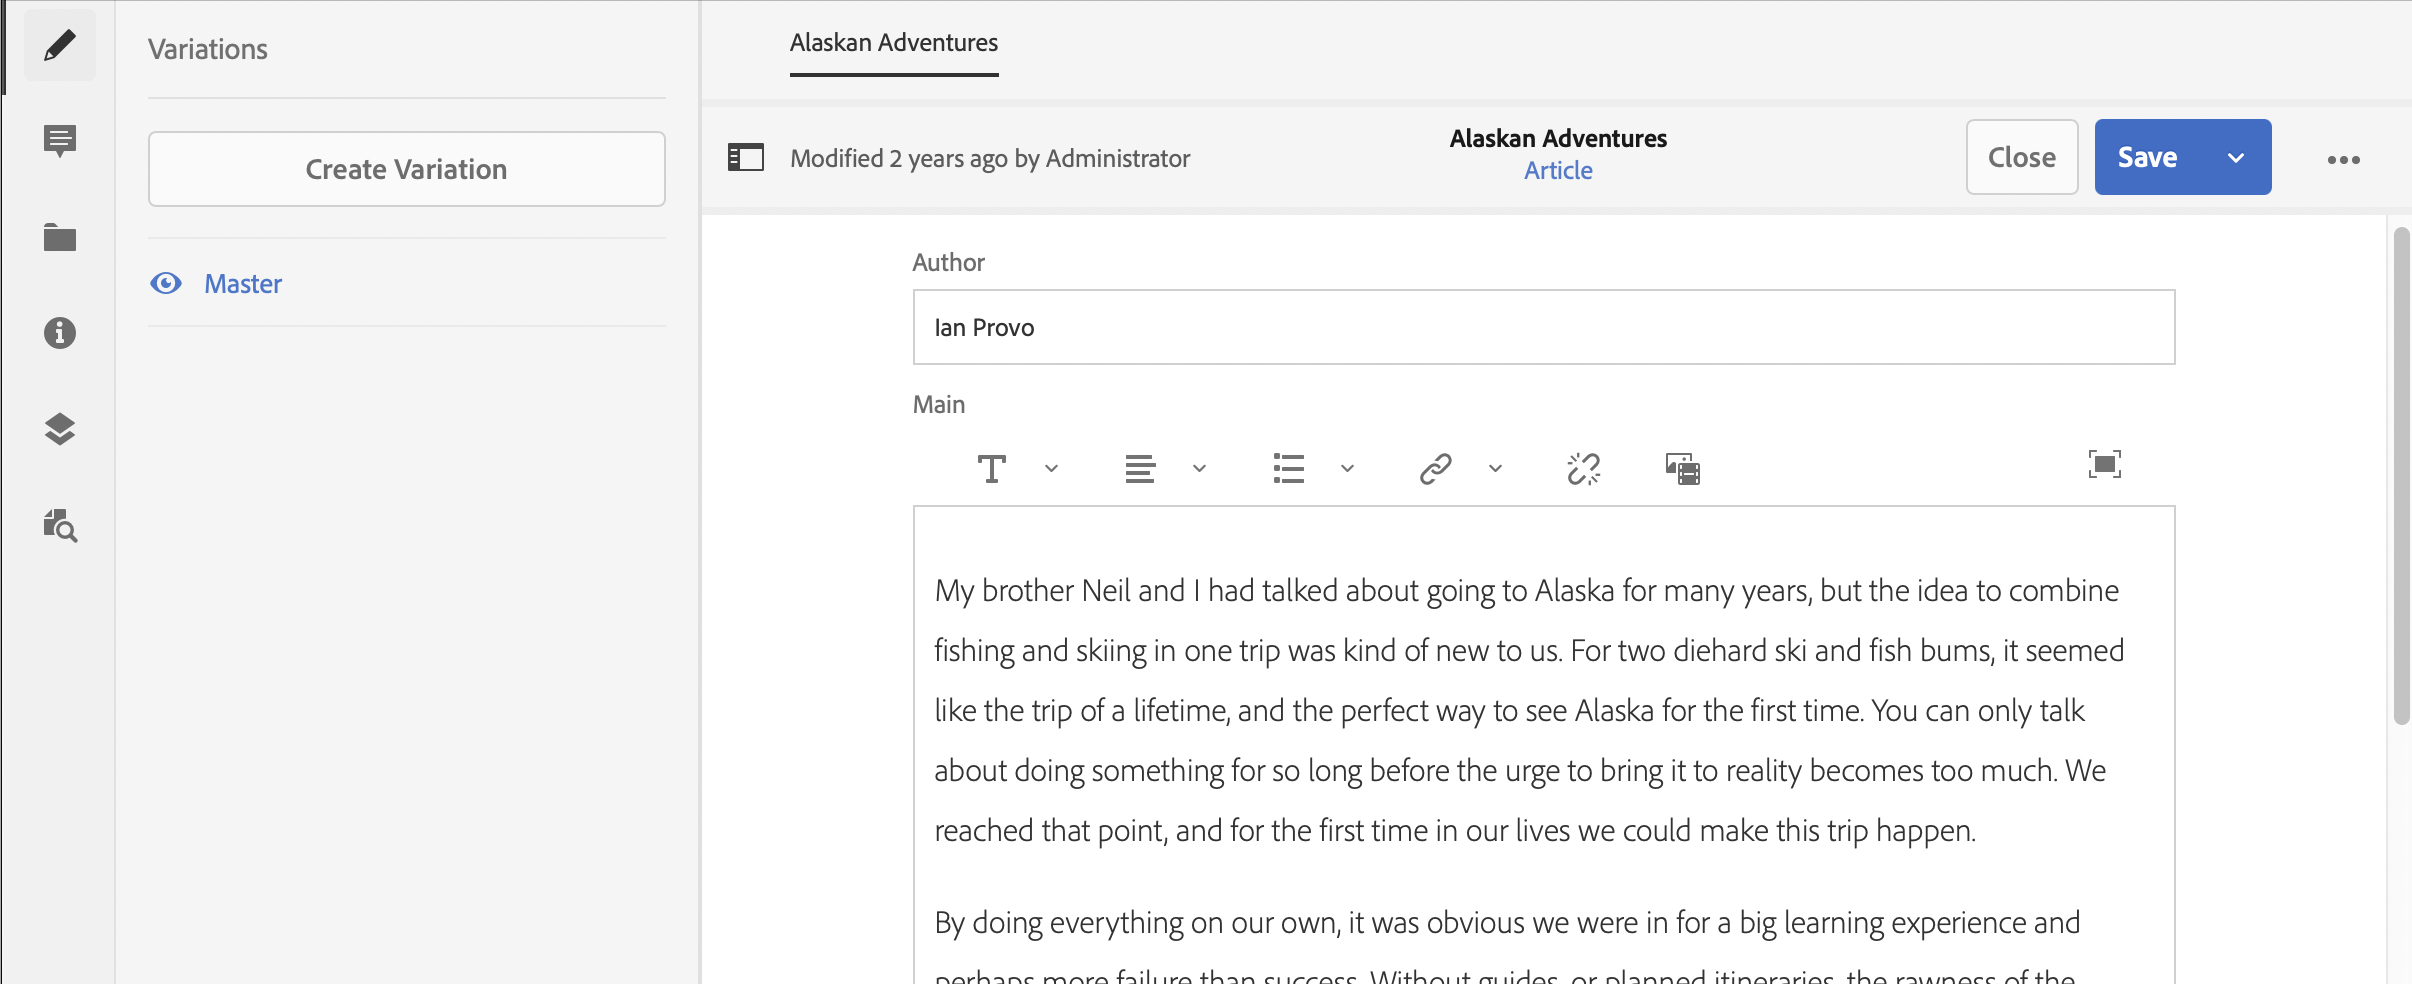
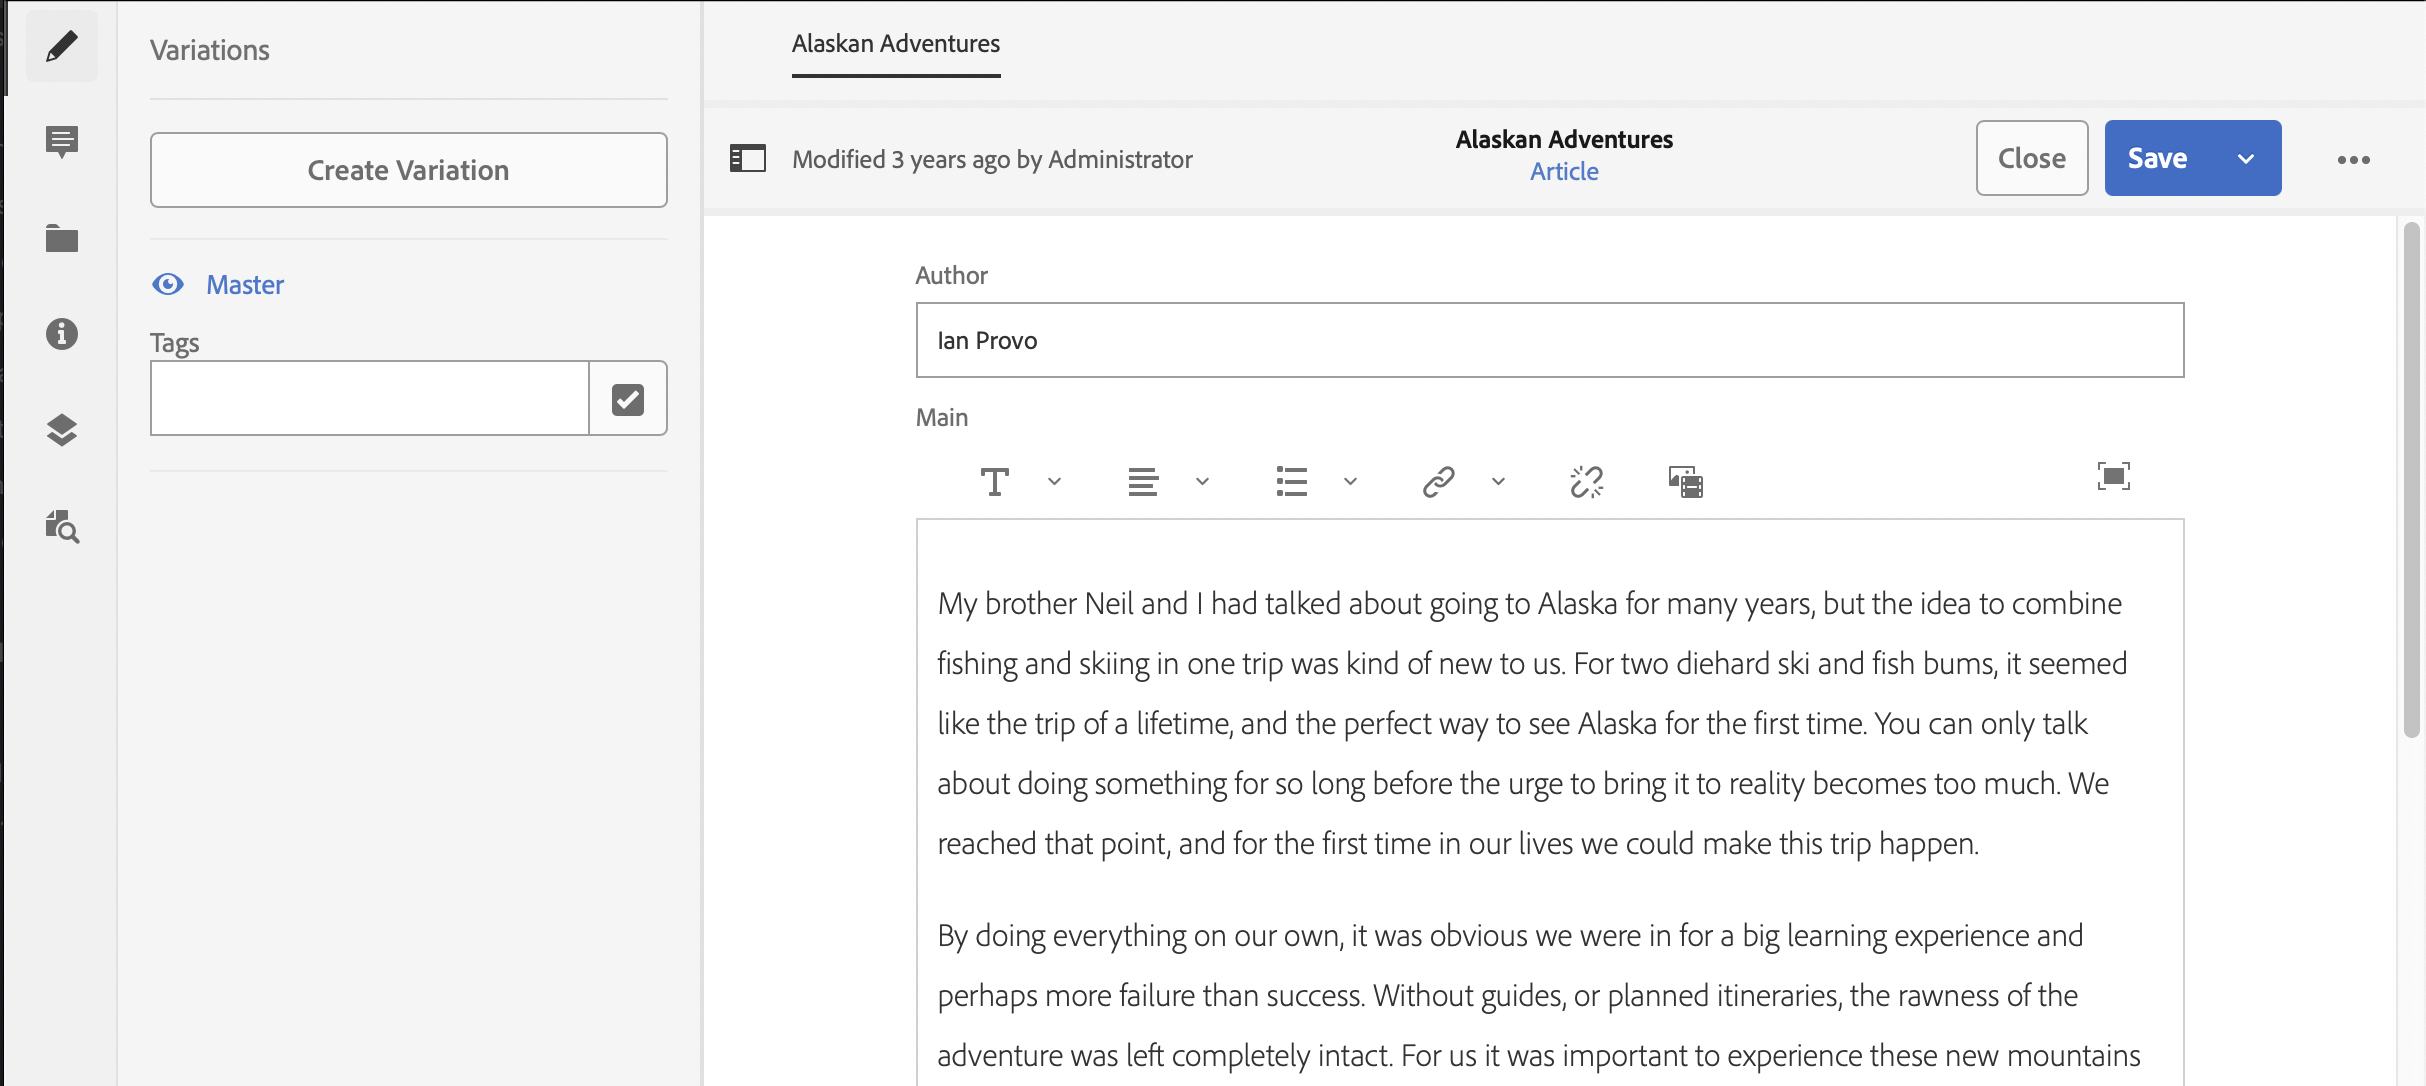
PU65150-CFGT-02-01

diff --git a/help/assets/content-fragments/content-fragments-variations.md b/help/assets/content-fragments/content-fragments-variations.md
@@ -14,7 +14,7 @@ From the **Variations** tab you can:
 * [Enter the content](#authoring-your-content) for your fragment,
 * [Create and manage variations](#managing-variations) of the **Master** content,
 
-Perform a range of other actions depending on the data-type being edited; for example:
+Perform a range of other actions depending on the data type being edited; for example:
 
 * [Insert visual assets into your fragment](#inserting-assets-into-your-fragment) (images)
 
@@ -34,24 +34,38 @@ Perform a range of other actions depending on the data-type being edited; for ex
 
 ## Authoring your Content {#authoring-your-content}
 
-When you open your content fragment for editing, the **Variations** tab will be open by default. Here you can author the content, for Master or any variations you have. The structured fragment contains various fields, of various data-types, that were defined in the content model. 
+When you open your content fragment for editing, the **Variations** tab will be open by default. Here you can author the content, for Master or any variations you have. The structured fragment contains various fields, of various data types, that were defined in the content model. 
 
 For example:
 
 ![full screen editor](assets/cfm-variations-02.png)
+
 You can:
 
-* make edits directly in the **Variations** tab
+* Make edits to your content directly in the **Variations** tab; each data type provides different editing options, for example:
 
-  * each data type provides different editing options
+  * for **Multi line text** fields you can also open the [full-screen editor](#full-screen-editor) to:
 
-* for **Multi line text** fields you can also open the [full-screen editor](#full-screen-editor) to:
+    * select the [Format](#formats)
+    * see more editing options (for [Rich Text](#rich-text) format)
+    * access a range of [actions](#actions)
 
-  * select the [Format](#formats)
-  * see more editing options (for [Rich Text](#rich-text) format)
-  * access a range of [actions](#actions)
+  * For **Fragment Reference** fields the [Edit Content Fragment](#fragment-references-edit-content-fragment) option can be available, depending on the model definition.
 
-* For **Fragment Reference** fields the **[Edit Content Fragment](#fragment-references-edit-content-fragment)** option can be available, depending on the model definition.
+* Assign **Tags** to the current variation; the tags can be added, updated and removed
+
+  * [Tags](/help/sites-authoring/tags.md) are particularly powerful when organizing your fragments as they can be used for content classification and taxonomy. Tags can be used for the purpose of finding content (by tags) and applying bulk operations. 
+
+    * Searches for a tag will return the fragment, with the tagged variation highlighted. 
+    * Variation tags can also be used to group variations for a specific Content Delivery Network (CDN) profile (for CDN caching), instead of using the variation name. 
+  
+    For example, you can tag relevant fragments as "Christmas launch" to allow browsing only these as a subset, or to copy them for use with another future launch in a new folder.
+
+  >[!NOTE]
+  >
+  >**Tags** can also be added (to the **Master** variation) as part of the [Metadata](/help/assets/content-fragments/content-fragments-metadata.md)
+
+* [Create and manage variations](#managing-variations) of the **Master** content.
 
 ### Full Screen Editor {#full-screen-editor}
 
@@ -372,7 +386,7 @@ They will be added as a reference, in your current location in your fragment.
 
    >[!CAUTION]
    >
-   >If, after adding an reference to another fragment, you change format to:
+   >If, after adding a reference to another fragment, you change format to:
    >* **Plain Text**: the reference will be completely lost from the fragment.
    >* **Markdown**: the reference will remain.
 
@@ -393,6 +407,10 @@ To create a new variation:
    >[!NOTE]
    >
    >When creating a new variation it is always **Master** that is copied, not the variation that is currently open.
+
+   >[!NOTE]
+   >
+   >When you create a new variation, all **Tags** currently assigned to the **Master** variation are copied to your new variation. 
 
 ### Editing a Variation {#editing-a-variation}
 
@@ -445,7 +463,7 @@ When editing a variation you have access to the action for synchronizing the cur
 >
 >Only the current element of the variation will be synchronized.
 >
->Synchronization only works on the **Multi line text** data-type.
+>Synchronization only works on the **Multi line text** data type.
 >
 >Transferring changes *from a variation to **Master*** is not available as an option.
 
@@ -471,4 +489,4 @@ When editing a variation you have access to the action for synchronizing the cur
 
    ![synchronizing with master](assets/cfm-variations-11c.png)
 
-1. Select **Synchronize**, the variation will updated and shown.
+1. Select **Synchronize**, the variation will be updated and shown.

diff --git a/help/assets/content-fragments/content-fragments-graphql-samples.md b/help/assets/content-fragments/content-fragments-graphql-samples.md
@@ -349,6 +349,58 @@ If you create a new variation, named "Berlin Centre" (`berlin_centre`), for the 
 }
 ```
 
+### Sample Query - Names of All Cities Tagged as City Breaks {#sample-names-all-cities-tagged-city-breaks}
+
+If you:
+
+* create a variety of tags, named `Tourism` : `Business`, `City Break`, `Holiday`
+* and assign these to the Master variation of various `City` instances
+
+Then you can use a query to return details of the `name` and `tags`of all entries tagged as City Breaks in the `city`schema.
+
+**Sample Query**
+
+```xml
+query {
+  cityList(
+    includeVariations: true,
+    filter: {_tags: {_expressions: [{value: "tourism:city-break", _operator: CONTAINS}]}}
+  ){
+    items {
+      name,
+      _tags
+    }
+  }
+}
+```
+
+**Sample Results**
+
+```xml
+{
+  "data": {
+    "cityList": {
+      "items": [
+        {
+          "name": "Berlin",
+          "_tags": [
+            "tourism:city-break",
+            "tourism:business"
+          ]
+        },
+        {
+          "name": "Zurich",
+          "_tags": [
+            "tourism:city-break",
+            "tourism:business"
+          ]
+        }
+      ]
+    }
+  }
+}
+```
+
 ### Sample Query - Full Details of a Company's CEO and Employees {#sample-full-details-company-ceos-employees}
 
 Using the structure of the nested fragments, this query returns the full details of a company's CEO and all its employees.
@@ -1470,6 +1522,62 @@ This query interrogates:
         markdown
         plaintext
         json
+      }
+    }
+  }
+}
+```
+
+### Sample Query for multiple Content Fragments, and their Variations, of a given Model {#sample-wknd-multiple-fragment-variations-given-model}
+
+This query interrogates:
+
+* for Content Fragments of type `article` and all variations
+
+**Sample Query**
+
+```xml
+query {
+  articleList(
+    includeVariations: true  ){
+    items {
+      _variation
+      _path
+      _tags
+      _metadata {
+        stringArrayMetadata {
+          name
+          value
+        }
+      }
+    }
+  }
+}
+```
+
+### Sample Query for Content Fragment Variations of a given Model that have a specific tag attached{#sample-wknd-fragment-variations-given-model-specific-tag}
+
+This query interrogates:
+
+* for Content Fragments of type `article` with one, or more, Variations having the tag `WKND : Activity / Hiking`
+
+**Sample Query**
+
+```xml
+{
+  articleList(
+    includeVariations: true,
+    filter: {_tags: {_expressions: [{value: "wknd:activity/hiking", _operator: CONTAINS}]}}
+  ){
+    items {
+      _variation
+      _path
+      _tags
+      _metadata {
+        stringArrayMetadata {
+          name
+          value
+        }
       }
     }
   }

diff --git a/help/assets/content-fragments/graphql-api-content-fragments.md b/help/assets/content-fragments/graphql-api-content-fragments.md
@@ -535,6 +535,11 @@ The basic operation of queries with GraphQL for AEM adhere to the standard Graph
   * add `List` to the model name; for example,  `cityList`
   * See [Sample Query - All Information about All Cities](#sample-all-information-all-cities)
 
+* The filter `includeVariations` is included in the `List` query type.  To retrieve Content Fragment Variations in the query results, then the `includeVariations` filter must be set to `true`.
+
+  >[!CAUTION]
+  >The filter `includeVariations` cannot be used together with the system-generated field `_variation`.
+
 * If you want to use a logical OR:
   * use ` _logOp: OR`
   * See [Sample Query - All Persons that have a name of "Jobs" or "Smith"](/help/assets/content-fragments/content-fragments-graphql-samples.md#sample-all-persons-jobs-smith)
@@ -569,7 +574,19 @@ The basic operation of queries with GraphQL for AEM adhere to the standard Graph
       >
       >If the given variation does not exist for a Content Fragment, then the master variation will be returned as a (fallback) default.
 
+      >[!CAUTION]
+      >The system-generated field `_variation` cannot be used together with the filter `includeVariations`.
+
       * See [Sample Query - All Cities with a Named Variation](/help/assets/content-fragments/content-fragments-graphql-samples.md#sample-cities-named-variation)
+
+    * `_tags` : to reveal the IDs of Content Fragments or Variations that contain tags; this is an array of `cq:tags` identifiers. 
+
+      * See [Sample Query - Names of All Cities Tagged as City Breaks](/help/assets/content-fragments/content-fragments-graphql-samples.md#sample-names-all-cities-tagged-city-breaks)
+      * See [Sample Query for Content Fragment Variations of a given Model that have a specific tag attached](/help/assets/content-fragments/content-fragments-graphql-samples.md#sample-wknd-fragment-variations-given-model-specific-tag)
+  
+      >[!NOTE]
+      >
+      >Tags can also be queried by listing the Metadata of a Content Fragment.
 
   * And operations:
   

diff --git a/help/assets/content-fragments/content-fragments-metadata.md b/help/assets/content-fragments/content-fragments-metadata.md
@@ -30,6 +30,12 @@ You can view and edit the metadata (properties) for content fragments:
     * **Tags**
       * [Tags](/help/sites-authoring/tags.md) are particularly powerful when organizing your fragments as they can be used for content classification and taxonomy. Tags can be used for the purpose of finding content (by tags) and applying bulk operations. 
       For example, you can tag relevant fragments as "Christmas launch" to allow browsing only these as a subset, or to copy them for use with another future launch in a new folder.
-    * Created (display only)
 
+      >[!NOTE]
+      >
+      >**Tags** can also be added when [authoring your Variation content](/help/assets/content-fragments/content-fragments-variations.md#authoring-your-content) and when [creating Variations](/help/assets/content-fragments/content-fragments-variations.md#creating-a-variation).
+
+    * **Created** (display only)
+
+    For example:
     ![metadata](assets/cfm-metadata-02.png)

diff --git a/help/assets/content-fragments/content-fragments-json-preview.md b/help/assets/content-fragments/content-fragments-json-preview.md
@@ -17,4 +17,6 @@ You can view the JSON representation of the current fragment. For example:
 
 ![Content Fragment Editor - Preview of a Fragment](assets/cfm-preview-02.png)
 
+<!--
 **Copy URL** allows you to copy to clipboard the URL for either author or publish.
+-->
